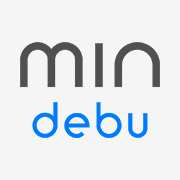
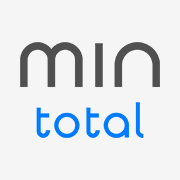
update company name and domain

Changed region(s): [[0.1667, 0.5556, 0.8333, 0.7778]]

diff --git a/_includes/footer.html b/_includes/footer.html
@@ -3,7 +3,7 @@
     <div class="container">
       <div class="row">
         <div class="col-lg-4 footer-info">
-          <h3>{{ site.title }}</h3>
+          <h3><img class="footer-logo" src="{{ '/assets/img/logo-footer.png' | relative_url }}" alt="{{ site.title }}"/></h3>
           <p>{{ site.description | newline_to_br }}</p>
         </div>
         <div class="col-lg-4 col-md-6 footer-links">

diff --git a/assets/css/custom.scss b/assets/css/custom.scss
@@ -25,6 +25,9 @@
         .footer-info {
             h3 {
                 text-transform: unset;
+                .footer-logo {
+                    height: 34px;
+                }
             }
         }
     }
